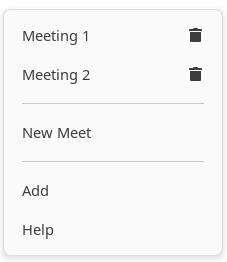
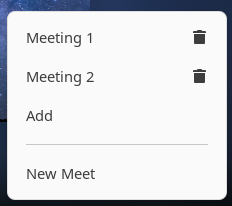
remove help option

diff --git a/extension.js b/extension.js
@@ -100,7 +100,7 @@ class GMeetManager {
         this._addAdditionalMenuItems();
     }
 
-    // Add additional menu items like 'New Meet', 'Add', and 'Help'
+    // Add additional menu items like 'New Meet', 'Add'
     _addAdditionalMenuItems() {
 
         if (this._hasMetadata) {
@@ -108,26 +108,21 @@ class GMeetManager {
             this._indicator.menu.addMenuItem(separator);
         }
 
-        let newMeetItem = new PopupMenu.PopupMenuItem('New Meet');
-        newMeetItem.connect('activate', () => {
-            this._openWebPage("https://meet.google.com/new");
-        });
-        this._indicator.menu.addMenuItem(newMeetItem);
-
-        let secondSeparator = new PopupMenu.PopupSeparatorMenuItem();
-        this._indicator.menu.addMenuItem(secondSeparator);
-
         let addItem = new PopupMenu.PopupMenuItem('Add');
         addItem.connect('activate', () => {
             this._showAddDialog();
         });
         this._indicator.menu.addMenuItem(addItem);
 
-        let helpItem = new PopupMenu.PopupMenuItem('Help');
-        helpItem.connect('activate', () => {
-            this._showHelpDialog();
+        let secondSeparator = new PopupMenu.PopupSeparatorMenuItem();
+        this._indicator.menu.addMenuItem(secondSeparator);
+
+        let newMeetItem = new PopupMenu.PopupMenuItem('New Meet');
+        newMeetItem.connect('activate', () => {
+            this._openWebPage("https://meet.google.com/new");
         });
-        this._indicator.menu.addMenuItem(helpItem);
+        this._indicator.menu.addMenuItem(newMeetItem);
+
 
     }
 
@@ -182,37 +177,6 @@ class GMeetManager {
         } catch (e) {
             this._debugLog(`Failed to open ${url}: ` + e.message);
         }
-    }
-
-    // Show the help dialog
-    _showHelpDialog() {
-        let modal = new ModalDialog.ModalDialog({});
-        let mainContentArea = new St.BoxLayout({ vertical: true });
-        modal.contentLayout.add(mainContentArea);
-
-        let descriptionLabel = new Clutter.Text({
-            text: "Welcome to the Google Meet Extension!\n\n" +
-                "With this extension, you can quickly access your Google Meet bookmarks directly from the Gnome Shell panel. " +
-                "You can add new bookmarks, manage existing ones, and directly open Meet sessions in your browser.\n\n" +
-                "Features:\n" +
-                "- 'New Meet': Opens a new Google Meet session in your default browser.\n" +
-                "- 'Add': Allows you to add a new bookmark to your Google Meet sessions. Simply provide a name and a unique code.\n" +
-                "- 'Help': Brings up this help dialog with information about the extension.\n\n" +
-                "To delete a bookmark, simply click on the trash icon next to each bookmark in the menu.\n\n" +
-                "This extension is not affiliated, funded, or in any way associated with Google and GMeet.\n" +
-                "For additional support, please contact the extension developer.",
-            line_wrap: true
-        });
-        mainContentArea.add_child(descriptionLabel);
-
-        modal.addButton({
-            label: "Close",
-            action: () => {
-                modal.close();
-            }
-        });
-
-        modal.open();
     }
 
 

diff --git a/README.md b/README.md
@@ -8,7 +8,6 @@ Features:
 
 - 'New Meet': Opens a new Google Meet session in your default browser.
 -  'Add': Allows you to add a new bookmark to your Google Meet sessions. Simply provide a name and a unique code.
-- 'Help': Brings up this help dialog with information about the extension.
 
 To delete a bookmark, simply click on the trash icon next to each bookmark in the menu.
 
